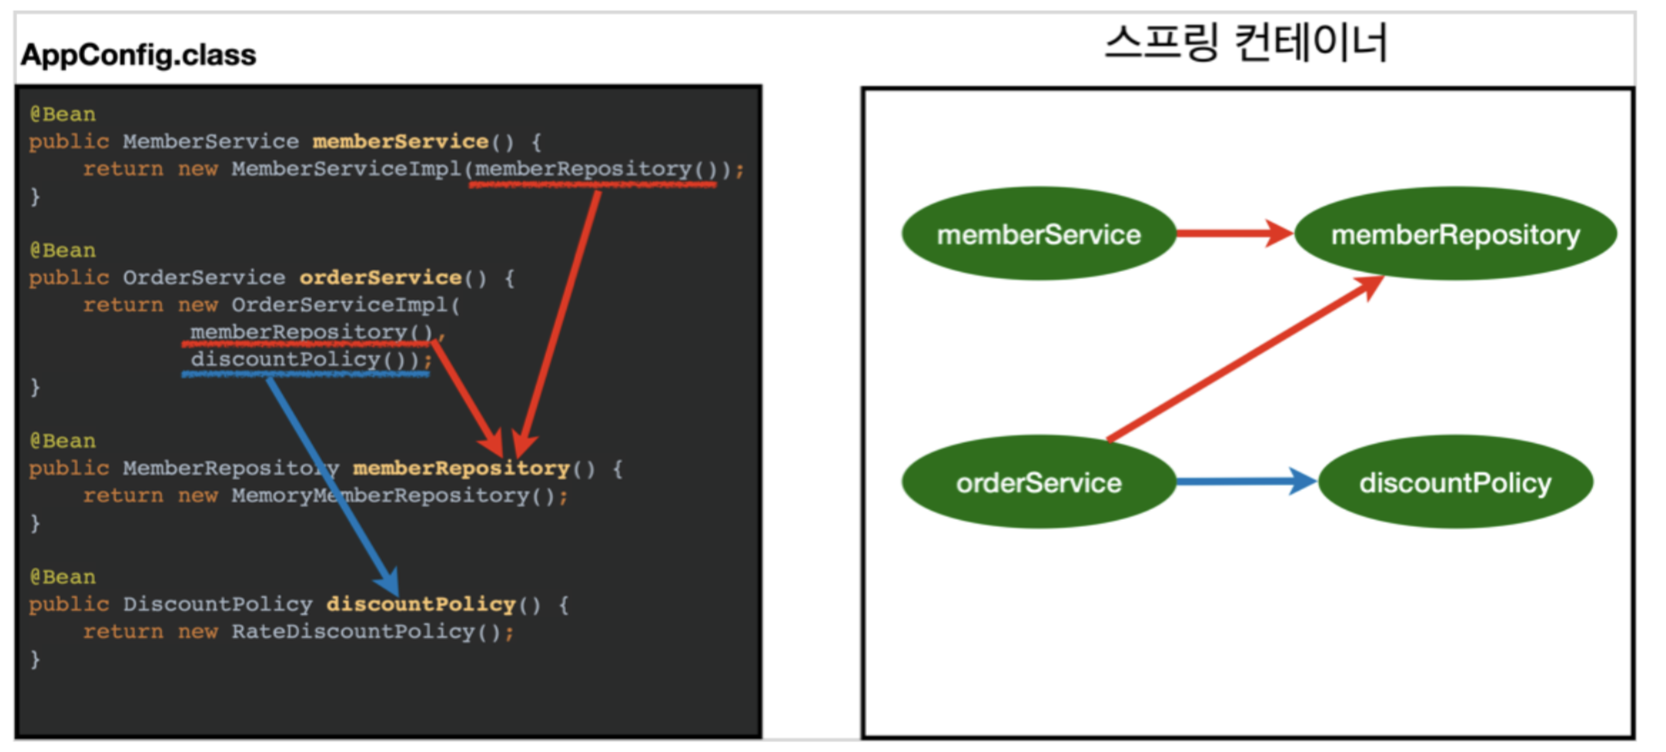
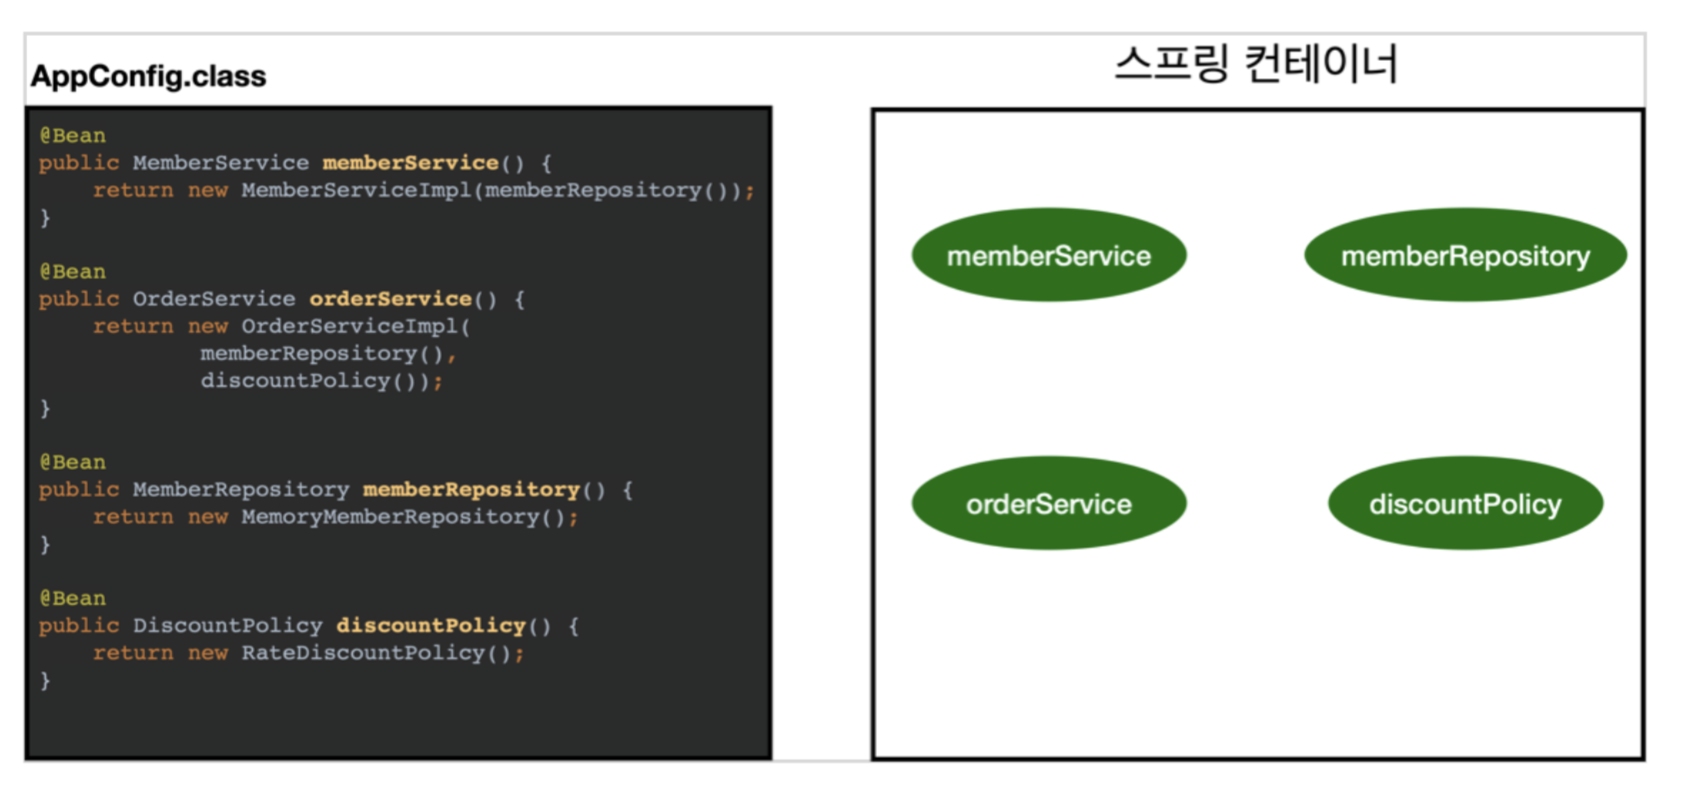
[docs] 스프링 핵심원리: 스프링 컨테이너와 스프링 빈 study

diff --git a/Spring/스프링핵심원리/study07_스프링 컨테이너와 스프링 빈.md b/Spring/스프링핵심원리/study07_스프링 컨테이너와 스프링 빈.md
@@ -33,4 +33,28 @@ ApplicationContext applicationContext =
 - 스프링 컨테이너를 생성할 때는 구성 정보를 지정해주어야 한다.
 - 여기서는 AppConfig.class를 구성 정보로 지정했다.
 
+2. 스프링 빈 등록
+- 스프링 컨테이너는 파라미터로 넘어온 설정 클래스 정보를 사용해서 스프링 빈을 등록한다.
+  - 빈 이름
+    - 빈 이름은 메서드 이름을 사용한다.
+    - 빈 이름을 직접 부여할 수도 있다.
+    - @Bean(name="memberService2")
+  
+- 주의: 빈 이름은 항상 다른 이름을 부여해야 한다. 같은 이름을 부여하면, 다른 빈이 무시되거나 기존 빈을 덮어버리거나 설정에 따라 오류가 발생한다.
 ![](./image/스프링컨테이너2.png)
+  
+  
+3. 스프링 빈 의존관계 설정 - 준비
+   ![](./image/스프링컨테이너3.png)
+4. 스프링 빈 의존관계 설정 - 완료
+![](./image/스프링컨테이너4.png)
+   
+- 스프링 컨테이너는 설정 정보를 참고해서 의존관계를 주입(DI)한다.
+
+> 참고: 스프링은 빈을 생성하고, 의존관계를 주입하는 단계가 나누어져 있다. 그런데 이렇게 자바 코드로 스프링 빈을
+> 호출하면서 의존관계 주입도 한번에 처리된다.
+
+
+### 정리
+- 스프링 컨테이너를 생성하고, 설정(구성) 정보를 참고해서 스프링 빈도 등록하고 의존관계도 설정했다.
+이제 스프링 컨테이너에서 데이터를 조회해보자.
